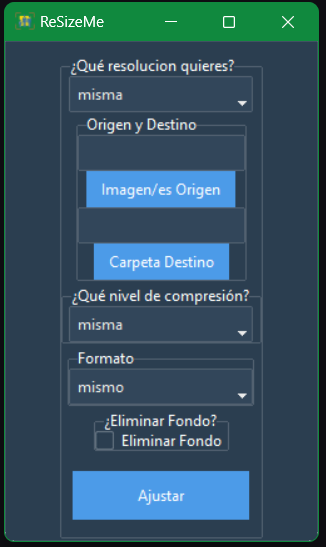
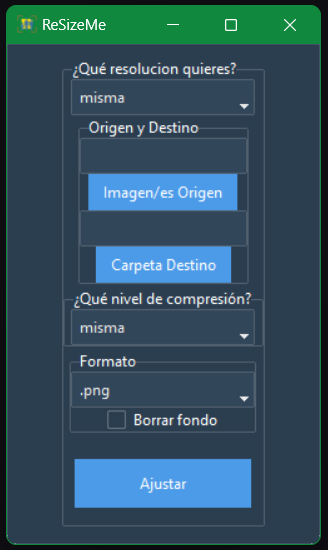
image and UI update

Changed region(s): [[0.0, 0.0, 0.9816, 0.9945], [0.7362, 0.7148, 0.7669, 0.7459], [0.7362, 0.5905, 0.7669, 0.6216]]

diff --git a/resizeme.py b/resizeme.py
@@ -194,12 +194,12 @@ def make_windows() -> None:
         frame_format, values=FORMATOS_OUTPUT, cursor="hand2")
     format_output.grid()
     value_remove = tk.BooleanVar(value=False)
-    remove_back = ttk.Checkbutton(frame_remove,
-        text="Eliminar Fondo",
+    remove_back = ttk.Checkbutton(frame_format,
+        text="Borrar fondo",
         variable=value_remove,
         cursor="hand2",
         command=lambda:change_format(value_remove,format_output))
-    remove_back.grid()
+    remove_back.grid(pady=2)
     boton = ttk.Button(frame_resolucion, text="Ajustar", padding=(50, 0, 50, 0), command=lambda: resize_images(
         origen.get(), destino.get(), resolution.get(), format_output.get(), image_zip.get(),value_remove.get()), cursor="hand2")
     frame.pack()
